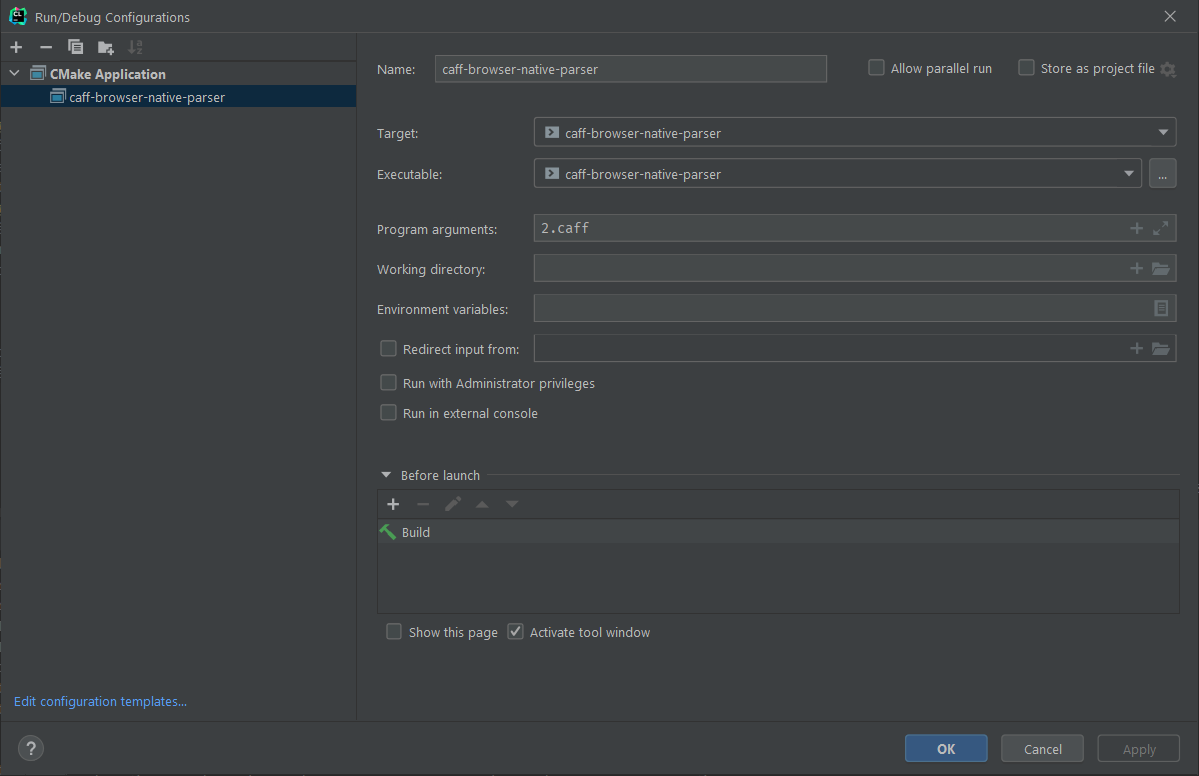
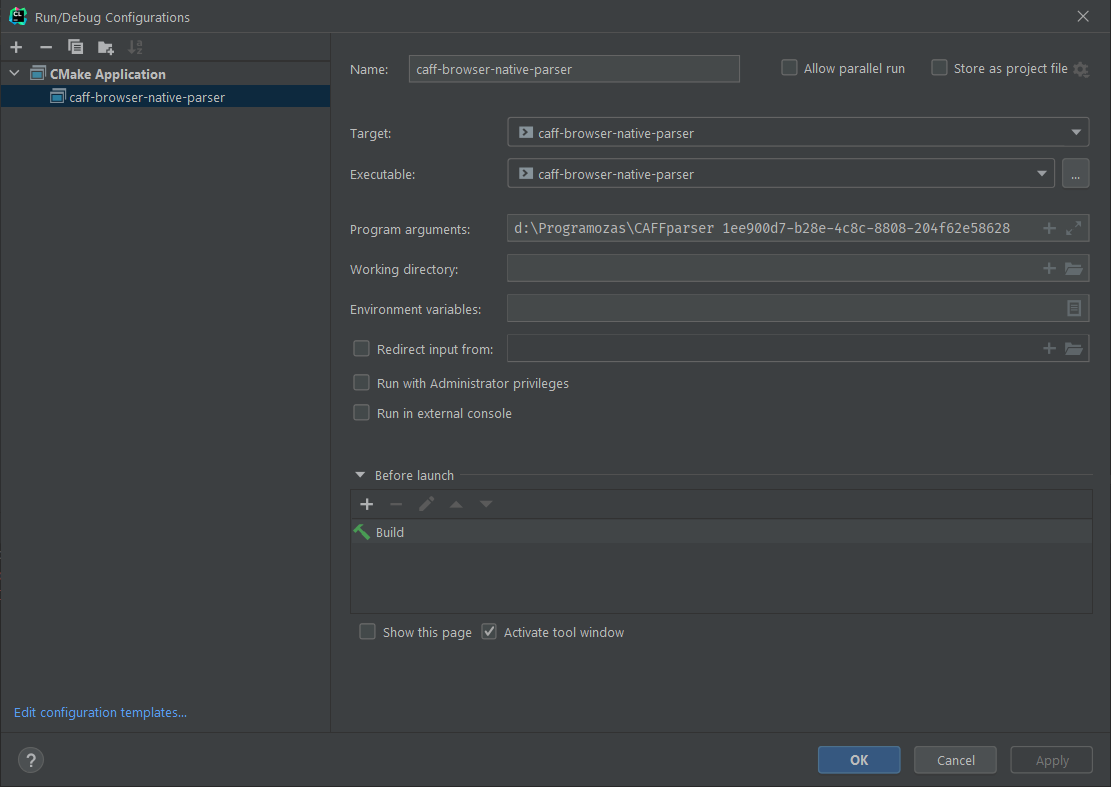
Update docs

diff --git a/caff-browser-native-parser/README.md b/caff-browser-native-parser/README.md
@@ -13,8 +13,10 @@
 
 ## Futtatás
 
-1. Az [images](/images) mappában található 3 db CAFF példa fájl, amivel tesztelhetjük a működést. A program az ebben a mappában található képekből dolgozik.
-2. A fájlt nevét a `main` függvény `argv` listájából olvassa ki, emiatt erre szükség van a futtatási beállítások megadásánál.
+1. Repo klónozása.
+2. `\CAFFparser\caff-browser-backend\src\main\resources\static` mappába `.caff` fájl helyezése. A program az ebben a mappában található képekből dolgozik. Az [images](/images) mappában található 3 db CAFF példa fájl, amivel tesztelhetjük a működést.
+3. `\CAFFparser\caff-browser-native-parser` mappába az `output-json` és `output-images` kimeneti mappák létrehozása.
+4. A repo elérési útvonalát és a fájlt nevét a `main` függvény `argv` listájából olvassa ki, emiatt erre szükség van a futtatási beállítások megadásánál.
    ![image info](../images/run-configurations.png)
-3. A beparsolt CIFF fájlok az `output-images` mappába generálódnak `.ppm` formátumban.
-4. A CAFF és CIFF fájlokhoz tartozó metaadatokból egy `.json` fájl kerül generálásra, amelyet az `output-json` mappában találunk.
+5. A beparsolt CIFF fájlok az `output-images` mappába generálódnak `.ppm` formátumban.
+6. A CAFF és CIFF fájlokhoz tartozó metaadatokból egy `.json` fájl kerül generálásra, amelyet az `output-json` mappában találunk.
